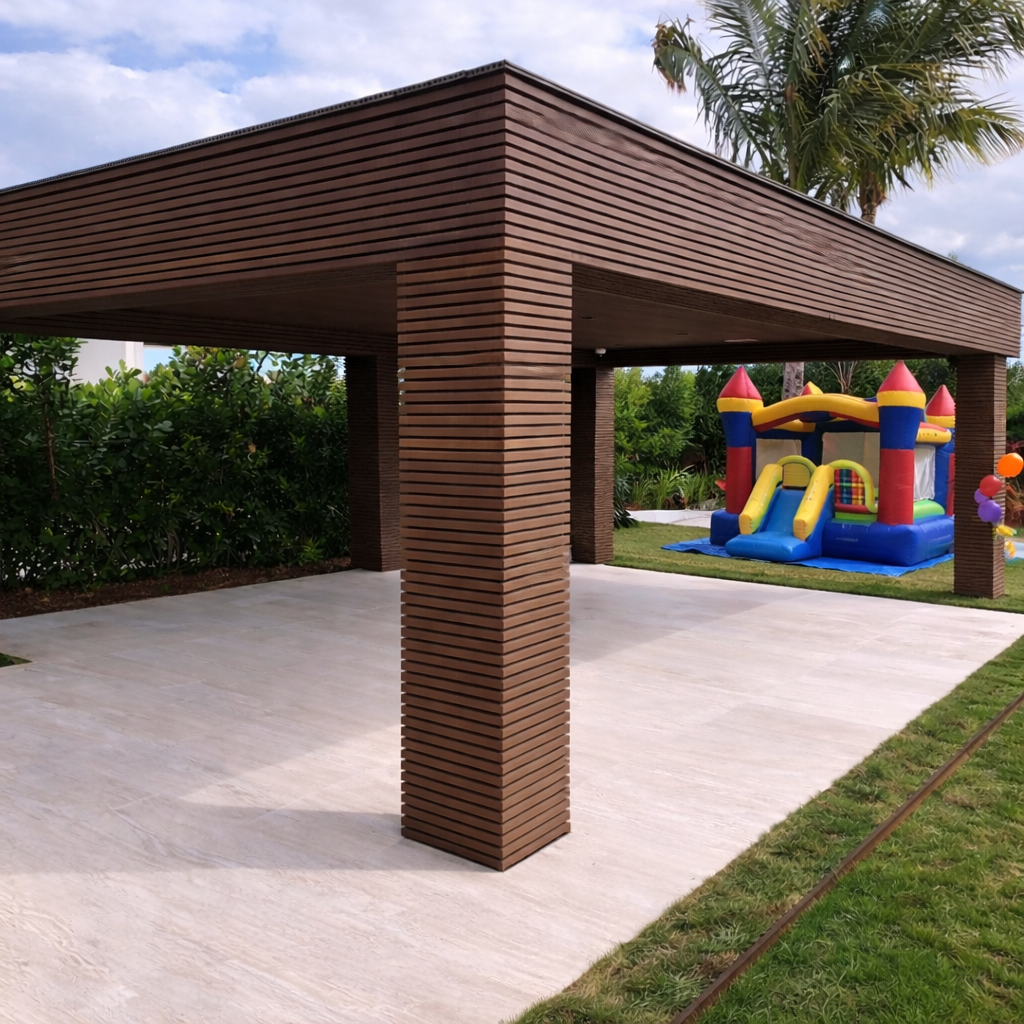
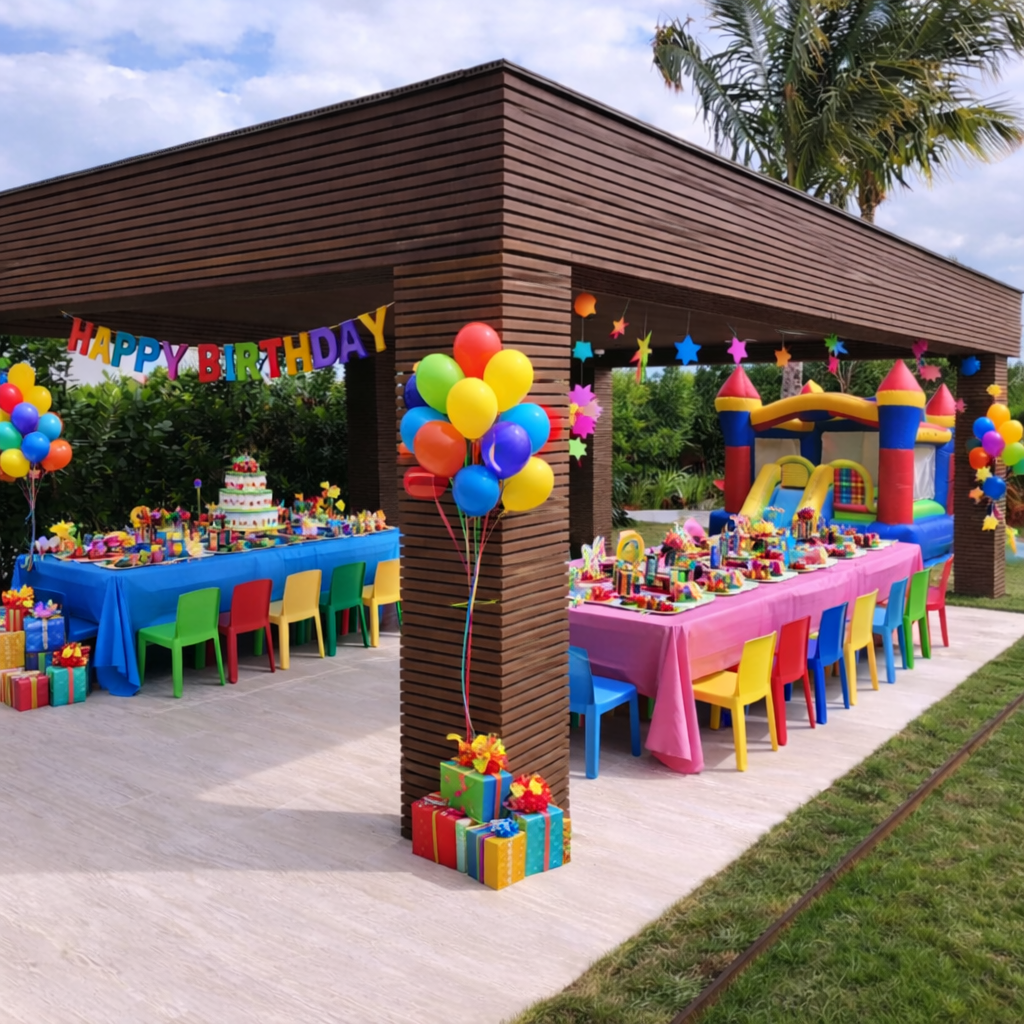
Add ref in Header for Service Options

diff --git a/src/componets/Header/Header.tsx b/src/componets/Header/Header.tsx
@@ -9,6 +9,7 @@ export const Header = () => {
 
    const {user, logout} = useContext(AuthContext);
    const megaMenuRef = useRef<HTMLDivElement | null>(null);
+   const mobileServicesRef = useRef<HTMLDivElement | null>(null);
 
    const [menuOpen, setMenuOpen] = useState(false);
    const toggleMenu = () => setMenuOpen((prev) => !prev);
@@ -21,10 +22,15 @@ export const Header = () => {
    //---- Cierra el mega menú al hacer clic fuera de él ------
    useEffect(() => {
       const handleClickOutside = (event: MouseEvent) => {
-         if (
-            megaMenuRef.current &&
-            !megaMenuRef.current.contains(event.target as Node)
-         ) {
+         const target = event.target as Node;
+
+         const clickedInsideDesktop =
+            megaMenuRef.current && megaMenuRef.current.contains(target);
+
+         const clickedInsideMobile =
+            mobileServicesRef.current && mobileServicesRef.current.contains(target);
+
+         if (!clickedInsideDesktop && !clickedInsideMobile) {
             setDesktopServicesOpen(false);
             setMobileServicesOpen(false);
          }
@@ -37,11 +43,11 @@ export const Header = () => {
       };
    }, []);
 
-
-
-
-   
-   const closeMenu = () => setMenuOpen(false);
+   const closeMenu = () => {
+      setMenuOpen(false);
+      setMobileServicesOpen(false);
+      setDesktopServicesOpen(false);
+   };
 
     return (
       <header className='main-header'>
@@ -167,7 +173,8 @@ export const Header = () => {
                   </button>
                   
                   {/* SERVICES DROPDOWN EN FLUJO NORMAL */}
-                  <div className="dropdown-mobile">
+                  <div className="dropdown-mobile" 
+                       ref={mobileServicesRef}>
                      <button
                         type="button"
                         className="dropdown-mobile-header"
@@ -180,16 +187,16 @@ export const Header = () => {
                      {mobileServicesOpen && (
                         <div className="dropdown-mobile-content">
                            <a className="dropdown-link" href="/fences" onClick={closeMenu}>
-                           Fence/Gate
+                              Fence/Gate
                            </a>
                            <a className="dropdown-link" href="/pergolas" onClick={closeMenu}>
-                           Pergolas/Trellis
+                              Pergolas/Trellis
                            </a>
                            <a className="dropdown-link" href="/stairs" onClick={closeMenu}>
-                           Stairs
+                              Stairs
                            </a>
                            <a className="dropdown-link" href="/claddings" onClick={closeMenu}>
-                           Exterior Claddings
+                              Exterior Claddings
                            </a>
                         </div>
                      )}
